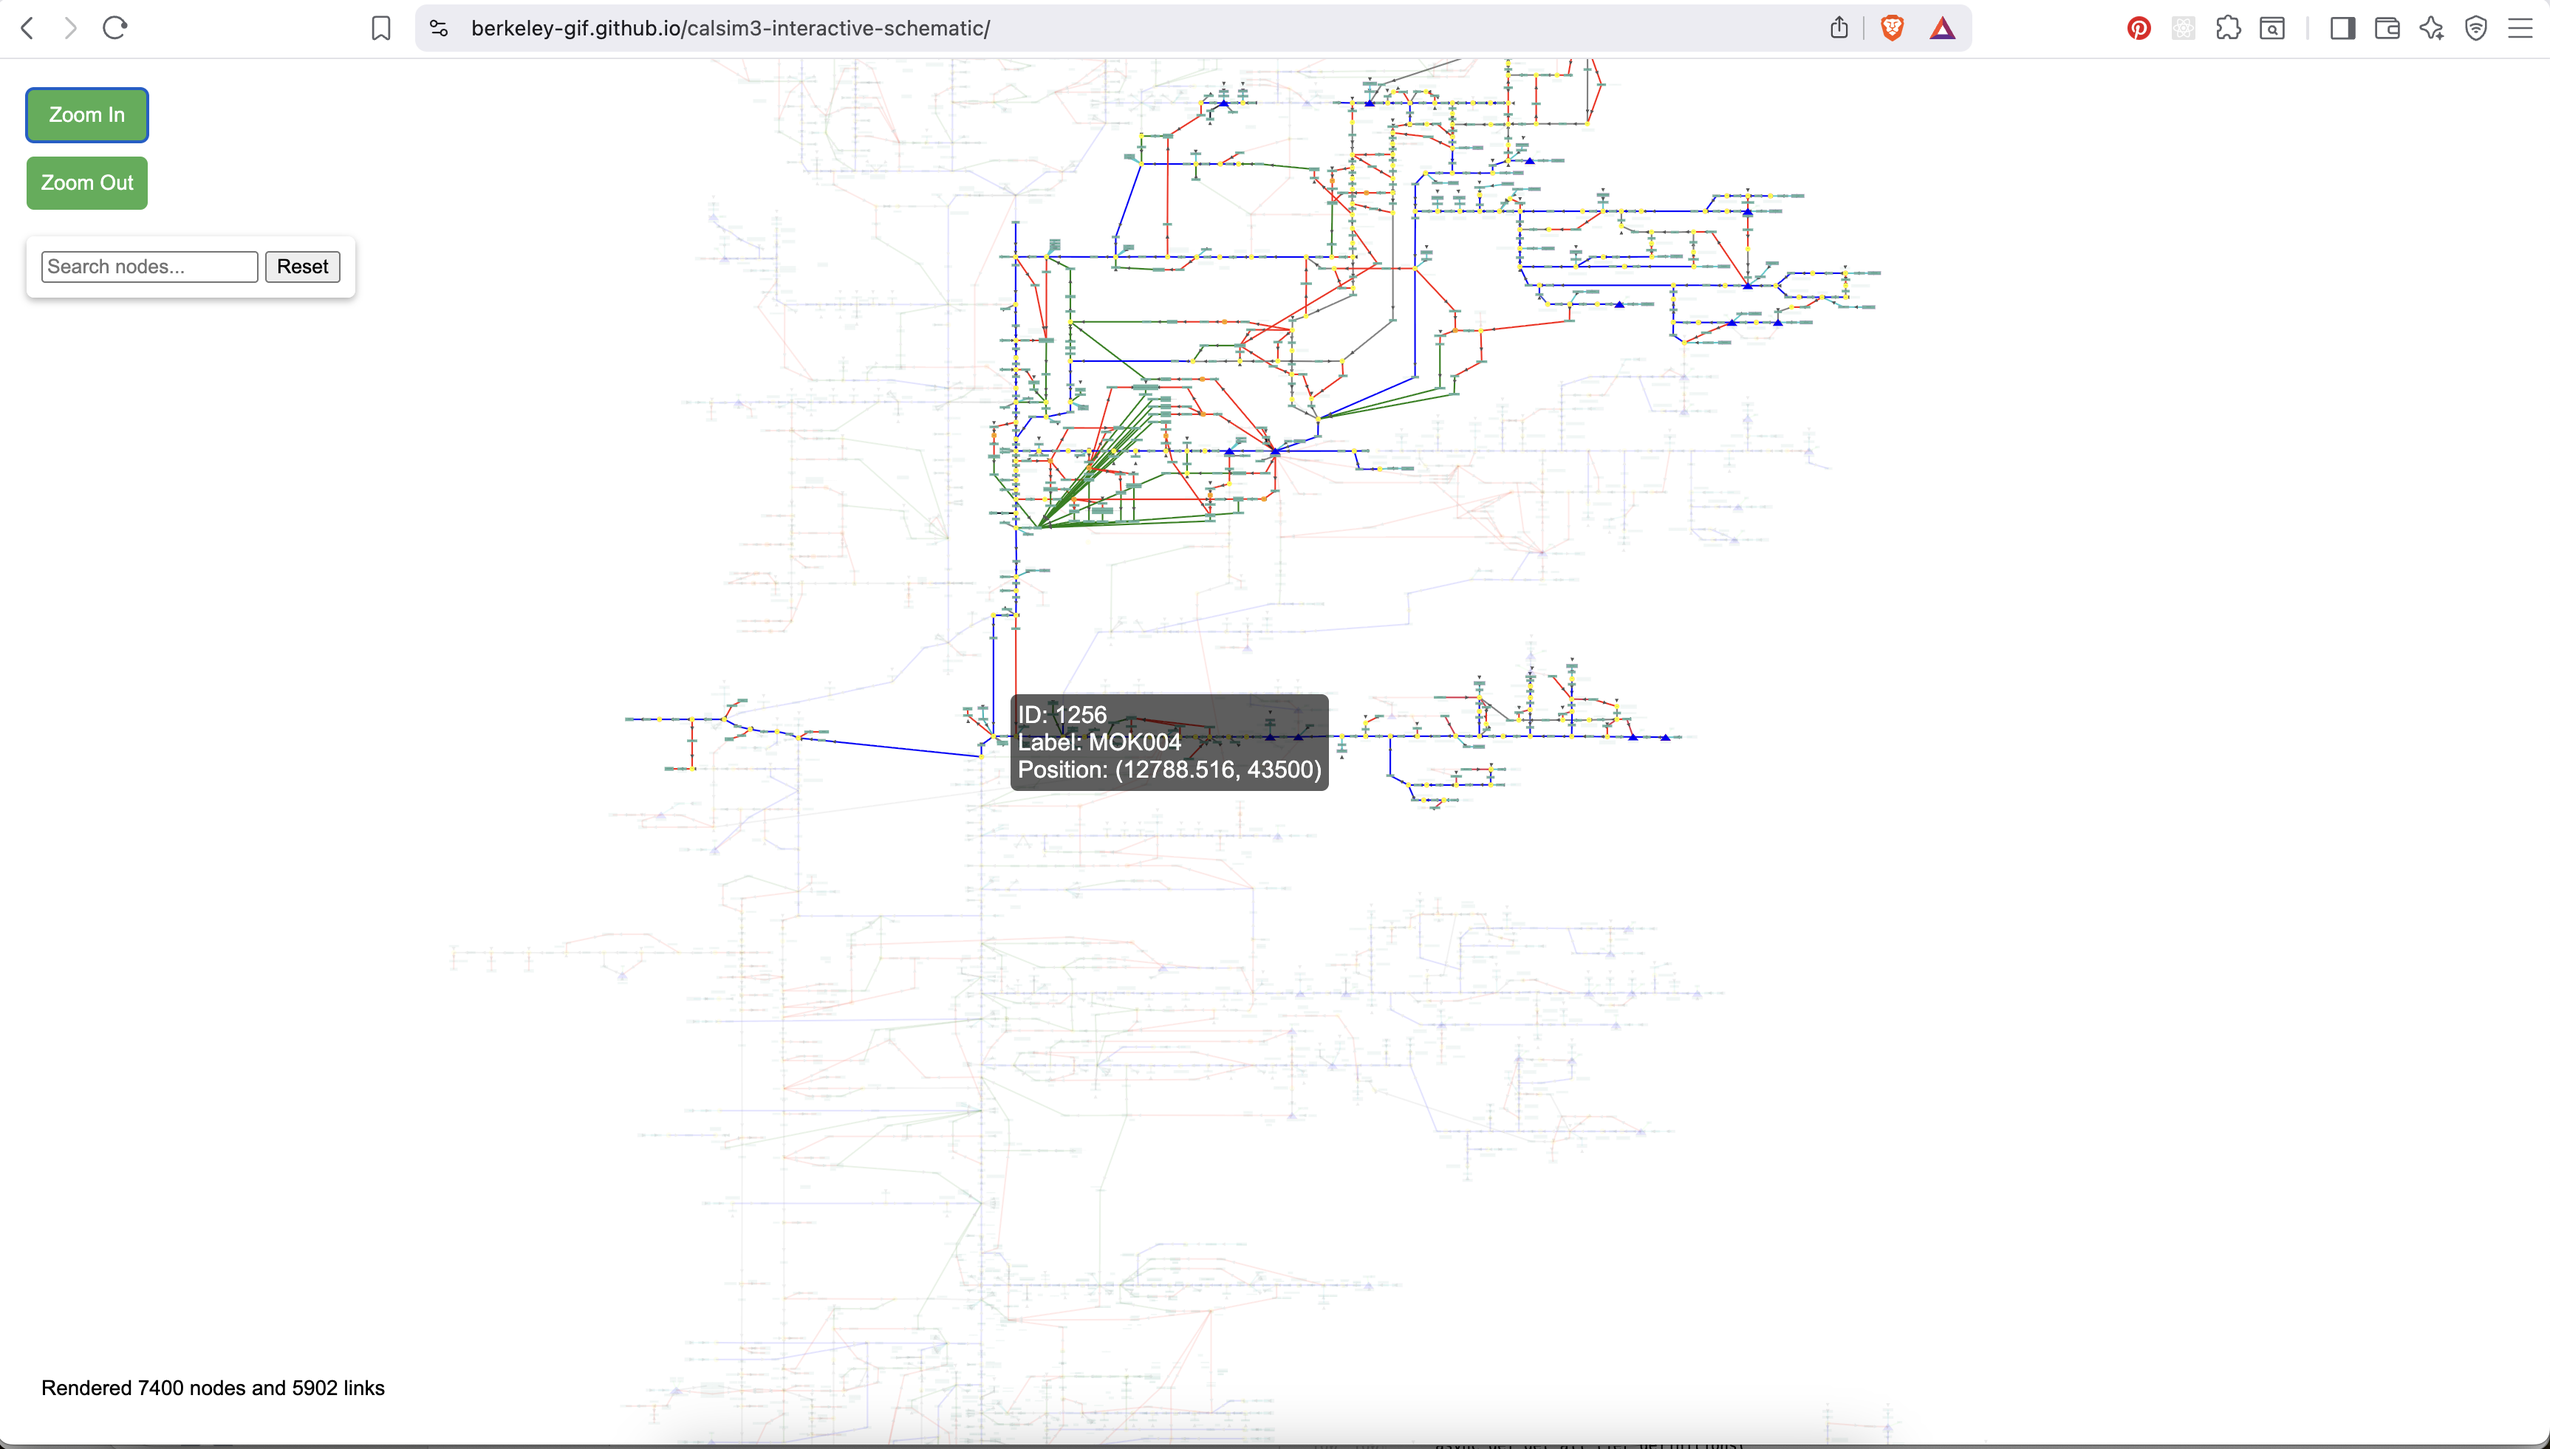
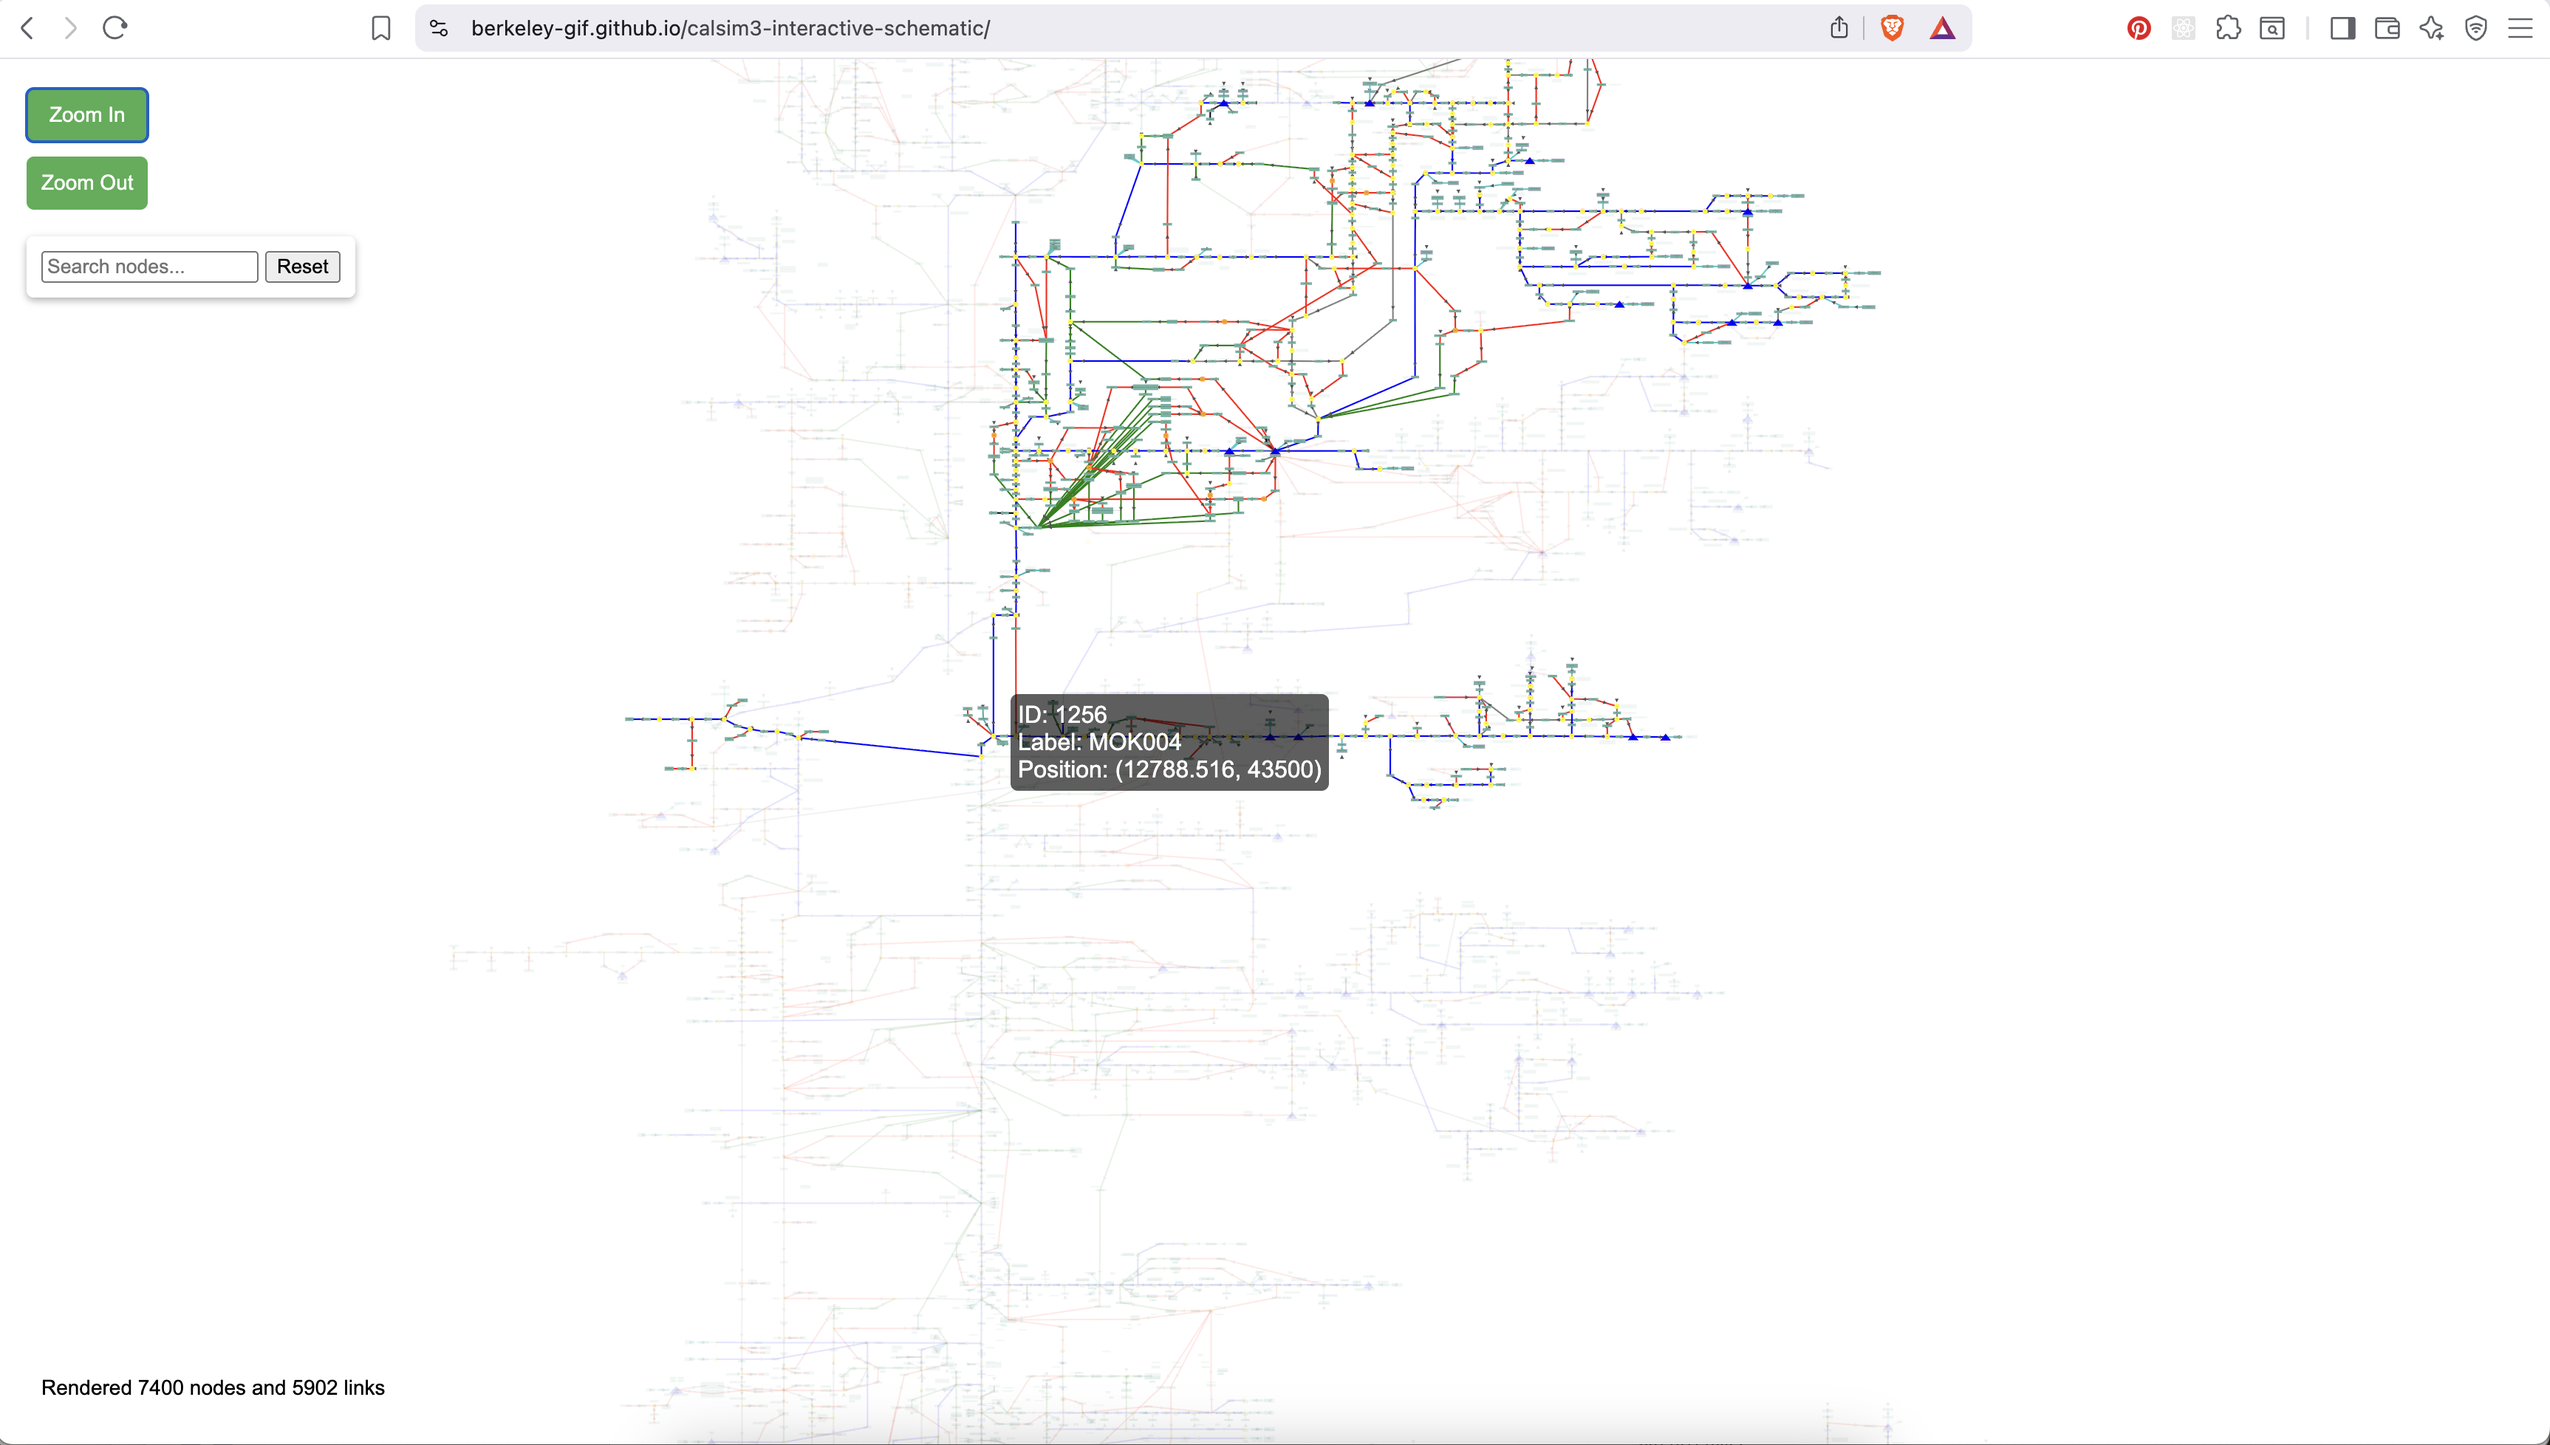
README

diff --git a/README.md b/README.md
@@ -10,6 +10,8 @@ See what is upstream and downstream:
 
 ![See what is upstream and downstream](docs/screenshots/upstream-downstream.png)
 
+---
+
 ## Views
 
 The project ships three independent pages. Each is a separate Vite entry point that loads one ES module.
